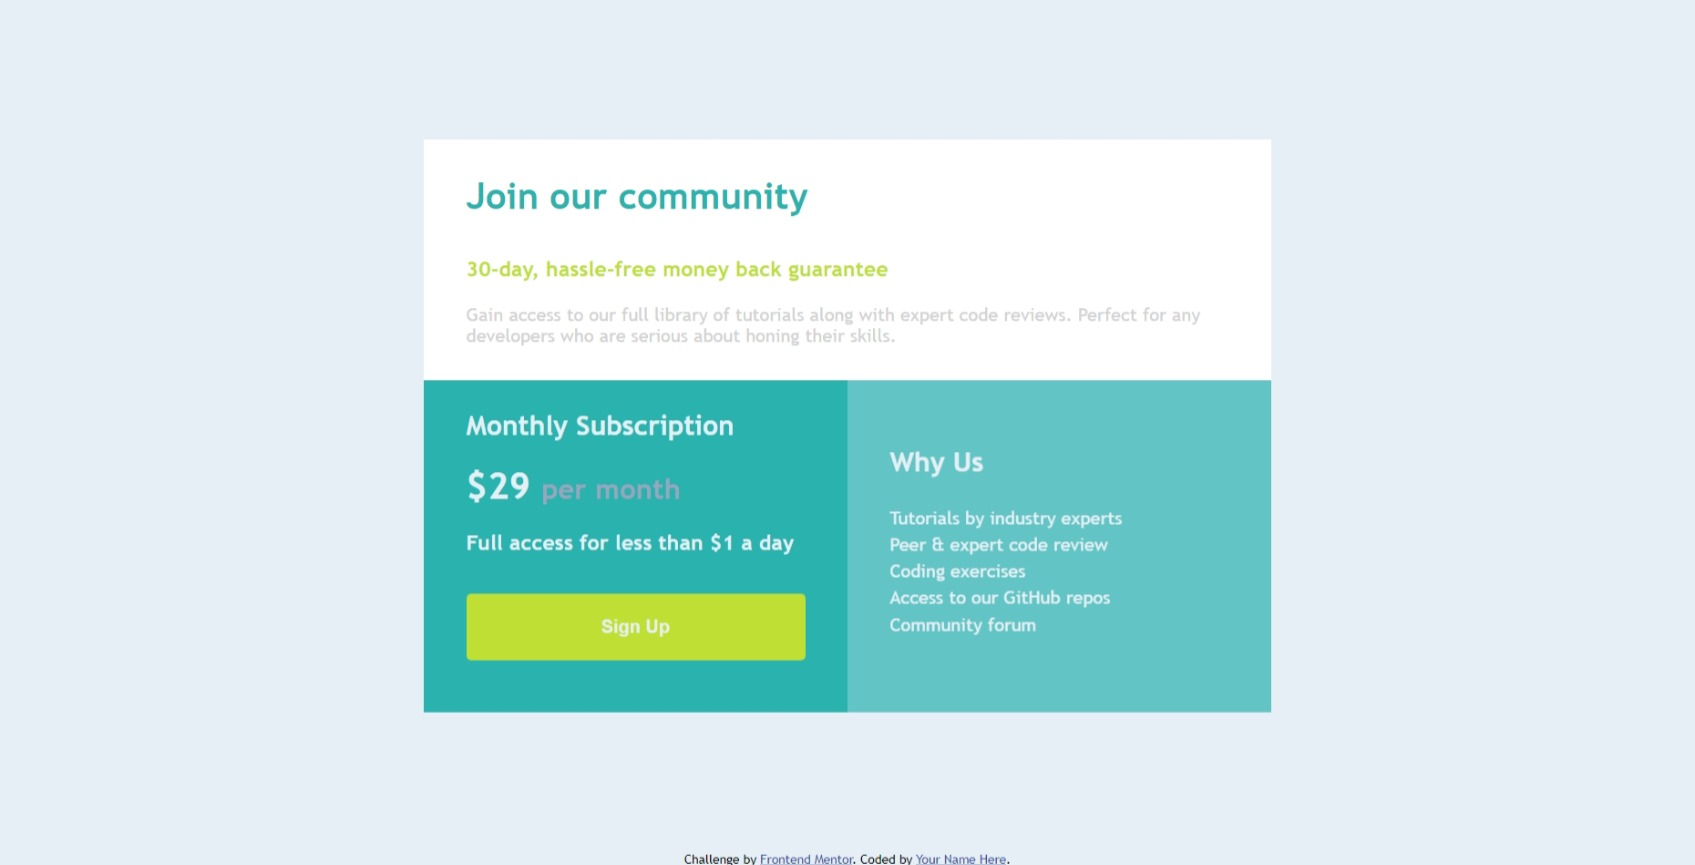
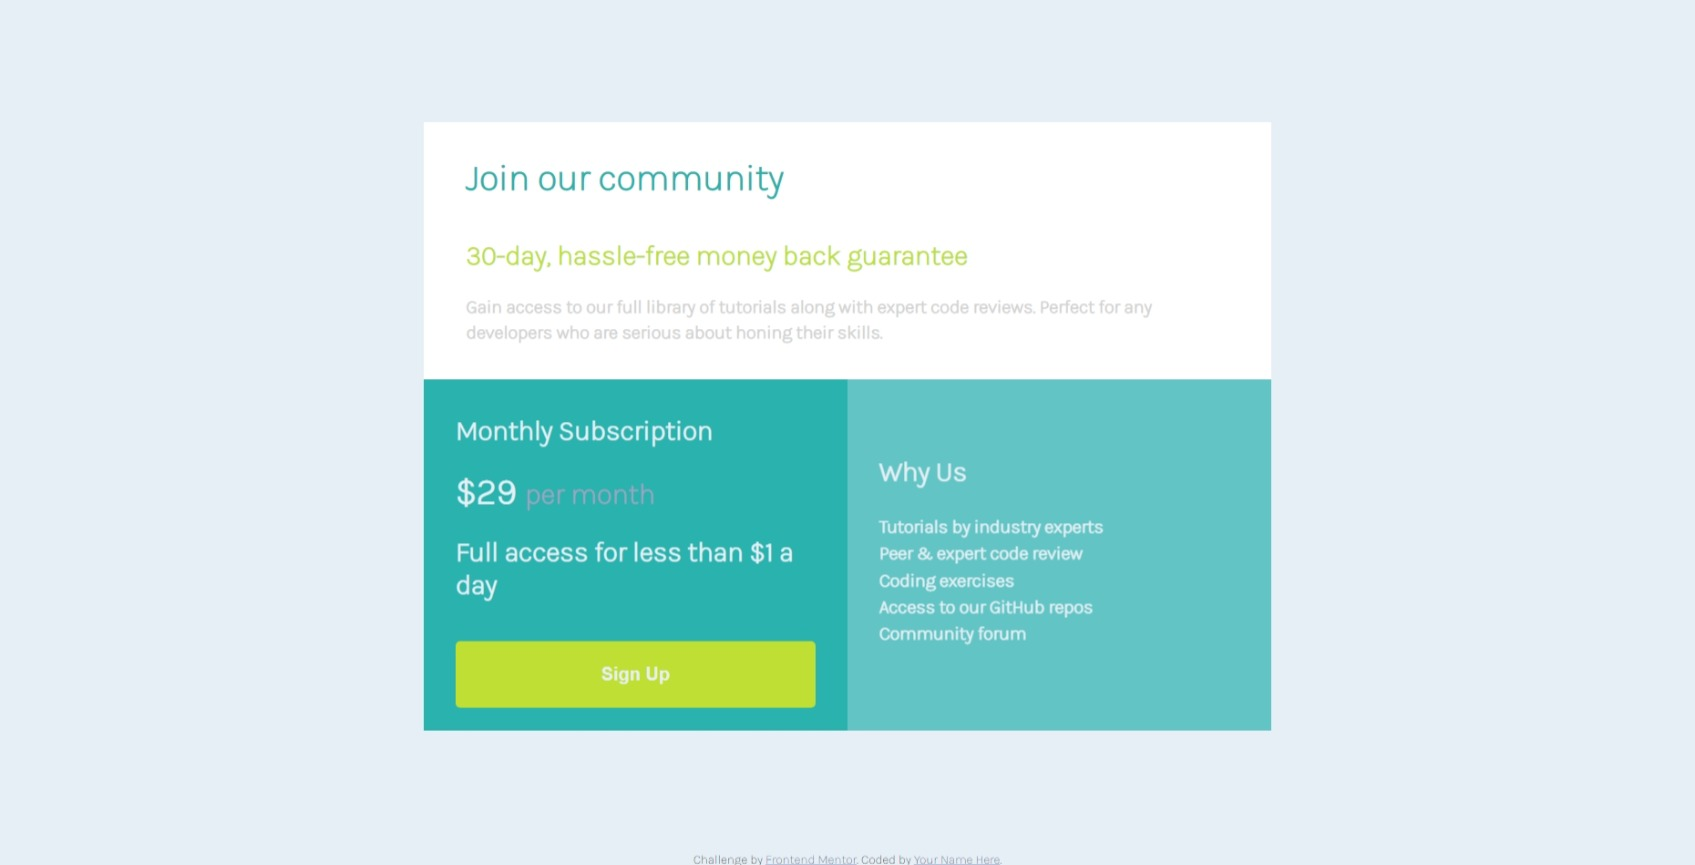
Add files via upload

diff --git a/styles.css b/styles.css
@@ -1,3 +1,5 @@
+@import url("https://fonts.googleapis.com/css2?family=Karla:wght@200&display=swap");
+
 * {
   margin: 0px;
   padding: 0px;
@@ -15,6 +17,7 @@
 body {
   max-width: 100%;
   background-color: hsl(204, 43%, 93%);
+  font-family: "Karla", sans-serif;
 }
 
 main {
@@ -32,6 +35,7 @@ main {
 .top-content {
   background-color: white;
   display: flex;
+  width: 100%;
   justify-content: center;
   align-content: center;
 }
@@ -55,6 +59,8 @@ main {
   font-size: 16px;
   font-weight: 400;
   padding: 0px 0px 30px 0px;
+  font-weight: 700;
+  line-height: 1.4;
 }
 
 .bottom-content {
@@ -68,10 +74,11 @@ main {
   justify-content: center;
   align-items: center;
   background-color: hsl(179, 62%, 43%);
+  font-weight: 700;
 }
 
 .pricing-content {
-  width: 80%;
+  width: 85%;
   min-height: calc(20vh - 12.8px);
 }
 
@@ -115,8 +122,9 @@ main {
 }
 
 .list-container {
-  width: 80%;
+  width: 85%;
   min-height: calc(30vh - 12.8px);
+  font-weight: 700;
 }
 
 .list-system > li {
